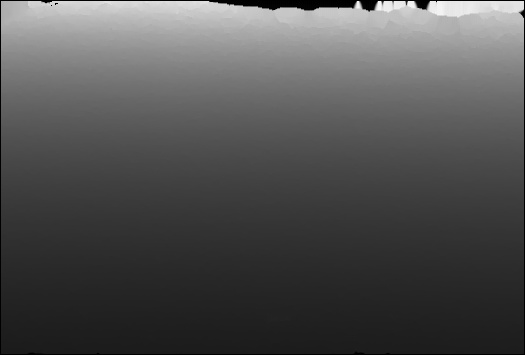
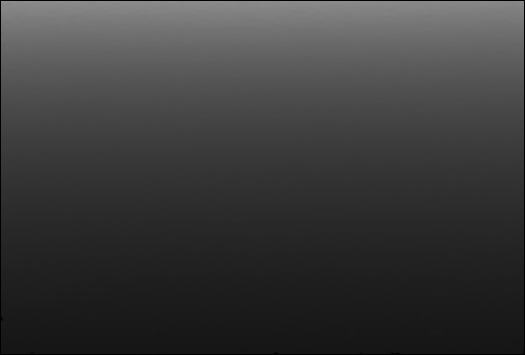
added launch file and preprocessing node

diff --git a/vision_pcl/src/detector.cpp b/vision_pcl/src/detector.cpp
@@ -62,43 +62,6 @@ double const maxY = -0.01; // 1cm
 
 double const minSaturation = 0.3;
 
-double distanceToPlane(Eigen::Vector4f centroid) {
-
-    double x = centroid[0];
-    double y = centroid[1];
-    double z = centroid[2];
-
-    double distTop = std::abs(a * x + b * y + c * z + d);
-    double distBot = std::sqrt(a * a + b * b + c * c);
-
-    return distTop / distBot;
-}
-
-pcl::PointCloud<pcl::PointXYZRGB>::Ptr passThroughZ(const pcl::PointCloud<pcl::PointXYZRGB>::ConstPtr input) {
-
-    pcl::PointCloud<pcl::PointXYZRGB>::Ptr output(new pcl::PointCloud<pcl::PointXYZRGB>);
-
-    pcl::PassThrough<pcl::PointXYZRGB> passthrough;
-    passthrough.setInputCloud(input);
-    passthrough.setFilterFieldName("z");
-    passthrough.setFilterLimits(minZ, maxZ); // 0-1m
-    passthrough.filter(*output);
-
-    return output;
-}
-
-pcl::PointCloud<pcl::PointXYZRGB>::Ptr downsample(pcl::PointCloud<pcl::PointXYZRGB>::Ptr input) {
-
-    pcl::PointCloud<pcl::PointXYZRGB>::Ptr output(new pcl::PointCloud<pcl::PointXYZRGB>);
-
-    pcl::VoxelGrid<pcl::PointXYZRGB> downsample;
-    downsample.setInputCloud(input);
-    downsample.setLeafSize(leafSize, leafSize, leafSize);
-    downsample.filter(*output);
-
-    return output;
-}
-
 pcl::PointCloud<pcl::PointXYZRGB>::Ptr passThroughY(pcl::PointCloud<pcl::PointXYZRGB>::Ptr input) {
 
     pcl::PointCloud<pcl::PointXYZRGB>::Ptr output(new pcl::PointCloud<pcl::PointXYZRGB>);
@@ -112,7 +75,7 @@ pcl::PointCloud<pcl::PointXYZRGB>::Ptr passThroughY(pcl::PointCloud<pcl::PointXY
     return output;
 }
 
-pcl::PointCloud<pcl::PointXYZRGB>::Ptr transform(pcl::PointCloud<pcl::PointXYZRGB>::Ptr input, Eigen::Matrix4f transformation) {
+pcl::PointCloud<pcl::PointXYZRGB>::Ptr transform(const pcl::PointCloud<pcl::PointXYZRGB>::ConstPtr input, Eigen::Matrix4f transformation) {
 
     pcl::PointCloud<pcl::PointXYZRGB>::Ptr output(new pcl::PointCloud<pcl::PointXYZRGB>);
 
@@ -245,15 +208,9 @@ Eigen::Matrix4f getTransformation() {
 
 void cloudCallback(const pcl::PointCloud<pcl::PointXYZRGB>::ConstPtr& inputCloud) {
 
-    // Filter out everything farther than 1m
-    pcl::PointCloud<pcl::PointXYZRGB>::Ptr cloudPassthroughZ = passThroughZ(inputCloud);
-
-    // Downsample cloud
-    pcl::PointCloud<pcl::PointXYZRGB>::Ptr cloudDownsampled = downsample(cloudPassthroughZ);
-
     // Transform (rotate & translate) so the ground is on the y-axis
     Eigen::Matrix4f transformation = getTransformation();
-    pcl::PointCloud<pcl::PointXYZRGB>::Ptr cloudTransformed = transform(cloudDownsampled, transformation);
+    pcl::PointCloud<pcl::PointXYZRGB>::Ptr cloudTransformed = transform(inputCloud, transformation);
 
     // Filter out everything below 1cm (floor) and above debris (15cm)
     pcl::PointCloud<pcl::PointXYZRGB>::Ptr cloudPassthroughY = passThroughY(cloudTransformed);
@@ -351,8 +308,8 @@ int main (int argc, char** argv) {
   ros::init (argc, argv, "voxel_grid");
   ros::NodeHandle nh;
 
-  subscriber = nh.subscribe<pcl::PointCloud<pcl::PointXYZRGB> > ("/camera/depth_registered/points", 1, cloudCallback);
-  cloudPublisher = nh.advertise<pcl::PointCloud<pcl::PointXYZRGB> >("/voxel_grid", 1);
+  subscriber = nh.subscribe<pcl::PointCloud<pcl::PointXYZRGB> > ("/vision/preprocessed", 1, cloudCallback);
+  cloudPublisher = nh.advertise<pcl::PointCloud<pcl::PointXYZRGB> >("/vision/filtered", 1);
   pointPublisher = nh.advertise<geometry_msgs::Point>("/vision/object_centroid", 1);
 
   ros::Rate r(10); // 10Hz

diff --git a/vision_pcl/src/preprocess.cpp b/vision_pcl/src/preprocess.cpp
@@ -1,0 +1,85 @@
+// ROS
+#include <ros/ros.h>
+
+// Messages
+#include <sensor_msgs/PointCloud2.h>
+
+// PCL
+#include <pcl_ros/point_cloud.h>
+#include <pcl_conversions/pcl_conversions.h>
+#include <pcl/point_cloud.h>
+#include <pcl/point_types.h>
+#include <pcl/point_types_conversion.h>
+
+// PCL Filters
+#include <pcl/filters/voxel_grid.h>
+#include <pcl/filters/passthrough.h>
+
+ros::Publisher cloudPublisher;
+ros::Subscriber subscriber;
+
+double const leafSize = 0.005;
+double const minZ = 0.0; // 0m
+double const maxZ = 1.0; // 1m
+
+pcl::PointCloud<pcl::PointXYZRGB>::Ptr passThroughZ(const pcl::PointCloud<pcl::PointXYZRGB>::ConstPtr input) {
+
+    pcl::PointCloud<pcl::PointXYZRGB>::Ptr output(new pcl::PointCloud<pcl::PointXYZRGB>);
+
+    pcl::PassThrough<pcl::PointXYZRGB> passthrough;
+    passthrough.setInputCloud(input);
+    passthrough.setFilterFieldName("z");
+    passthrough.setFilterLimits(minZ, maxZ); // 0-1m
+    passthrough.filter(*output);
+
+    return output;
+}
+
+pcl::PointCloud<pcl::PointXYZRGB>::Ptr downsample(pcl::PointCloud<pcl::PointXYZRGB>::Ptr input) {
+
+    pcl::PointCloud<pcl::PointXYZRGB>::Ptr output(new pcl::PointCloud<pcl::PointXYZRGB>);
+
+    pcl::VoxelGrid<pcl::PointXYZRGB> downsample;
+    downsample.setInputCloud(input);
+    downsample.setLeafSize(leafSize, leafSize, leafSize);
+    downsample.filter(*output);
+
+    return output;
+}
+
+void cloudCallback(const pcl::PointCloud<pcl::PointXYZRGB>::ConstPtr& inputCloud) {
+
+    // Filter out everything farther than 1m
+    pcl::PointCloud<pcl::PointXYZRGB>::Ptr cloudPassthroughZ = passThroughZ(inputCloud);
+
+    // Downsample cloud
+    pcl::PointCloud<pcl::PointXYZRGB>::Ptr cloudDownsampled = downsample(cloudPassthroughZ);
+
+    // Downsampling calculations
+
+    /*double sizeBefore = (double) inputCloud->points.size();
+    double sizeAfter = (double) cloudDownsampled->points.size();
+    int left = (int) (100.0 * (sizeAfter / sizeBefore));
+    std::cout << left << "% remaining after preprocessing." << std::endl;*/
+
+    cloudPublisher.publish(cloudDownsampled);
+}
+
+int main(int argc, char** argv) {
+
+  ros::init(argc, argv, "preprocess");
+  ros::NodeHandle nh;
+
+  subscriber = nh.subscribe<pcl::PointCloud<pcl::PointXYZRGB> > ("/camera/depth_registered/points", 1, cloudCallback);
+  cloudPublisher = nh.advertise<pcl::PointCloud<pcl::PointXYZRGB> >("/vision/preprocessed", 1);
+
+  ros::spin();
+
+  /*ros::Rate r(10); // 10Hz
+
+  while (ros::ok()) {
+      ros::spinOnce();
+      r.sleep();
+  }*/
+
+}
